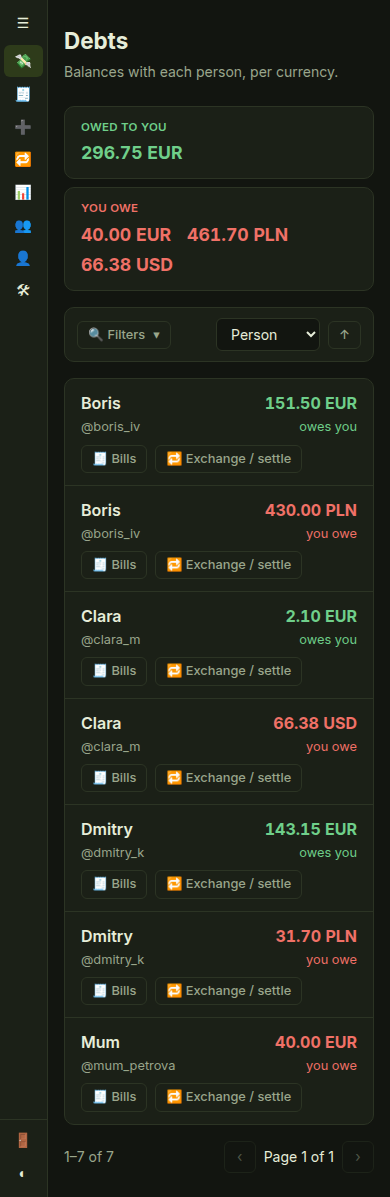
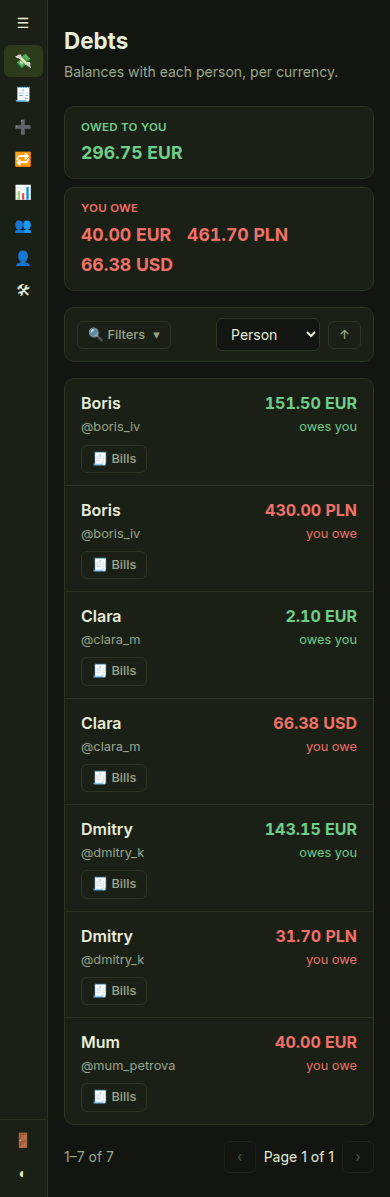
web-ui T5: participant search on its own line; docs, report and screenshots for round 4
Claude-Session: https://claude.ai/code/session_01LEFDEtKG9qXc3Y95xGRn4c

diff --git a/DebtBot/ClientApp/src/components/people/PeoplePicker.tsx b/DebtBot/ClientApp/src/components/people/PeoplePicker.tsx
@@ -46,8 +46,9 @@ export function PeoplePicker({ people, selected, onAdd, onRemove, locked, label 
             </span>
           )
         })}
-        <PersonSearch id={id} className="min-w-48 flex-1" people={people} exclude={chosen} onPick={onAdd} placeholder={t('people.add')} />
       </div>
+      {/* Always on its own line, full width, below the chips. */}
+      <PersonSearch id={id} className="mt-2 w-full" people={people} exclude={chosen} onPick={onAdd} placeholder={t('people.add')} />
     </div>
   )
 }

diff --git a/DebtBot.Doc/web-ui/reports/task-05.md b/DebtBot.Doc/web-ui/reports/task-05.md
@@ -5,7 +5,8 @@
   - `f15b731`: the approved mockups;
   - `f65978c`: backend sort and filters;
   - `5bf86b2`: the pages and the shared list pattern;
-  - the last commit: fixes from the runtime check, the docs, this report and the screenshots.
+  - `f9ab24a`: fixes from the runtime check, the docs, this report and the screenshots;
+  - round 4 (after the first report): `25788c3` people on a bill and no Exchange / settle; the last commit puts the search box on its own line and updates the docs, this report and the screenshots.
 
 ## Mockups (approved by the user)
 Three rounds; the spec is in `mockups/debts/`, `mockups/bills/`, `mockups/bill/` and `mockups/common/` (the shared CSS, `shell.js` and `list.js`).
@@ -23,6 +24,11 @@ Three rounds; the spec is in `mockups/debts/`, `mockups/bills/`, `mockups/bill/`
 **Round 3:** "remove all bill button from the pages, it's available on the left panel". So the pages have no New bill or Bills buttons. The per-row 🧾 Bills on Debts stays, because it's a filtered link. The user said not to send new mockups and to start building, so the round-3 PNGs were re-rendered and committed without another review.
 
 The Bill detail mockup wasn't changed after round 1.
+
+**Round 4, after the first report.** The user's feedback on the built pages:
+- "what's the exchange/settle button? exchanges are a feature where it creates back and forth bills to change currencies between two people". So the button is gone from the Debts rows (and from the Debts mockup README).
+- "line list would be a nightmare on a huge contacts list; make a section to select bill participants above with an autocompletion textbox and display only these in each line". This is done; see "People on a bill" below.
+- "make sure autocomplete for the participants is always on a new line". The search box sits on its own full-width line below the chips.
 
 ## Backend (sort and filters)
 **`GET Bills`** binds `[FromQuery] BillListQuery`.
@@ -98,6 +104,15 @@ No migration was needed.
 - `components/bill/PaymentEditor.tsx`: the same props, with `onSubmit(BillPaymentCreation)`.
 - Both only build the request object; the caller sends it.
 
+**People on a bill (round 4):**
+- `components/people/PersonSearch.tsx` is an ARIA combobox. It matches the start of any word of your name for them, their own name or the @username (`matchesPerson`, tested); shows up to 8 suggestions with "n more"; and supports ↑/↓, Enter and Esc.
+- `components/people/PeoplePicker.tsx`: the chosen people as chips, with the search box always on its own line below.
+- **On a draft:** a "People on this bill" section sits above the facts.
+  - It starts with you and everyone on a line or payment; those can't be removed.
+  - People you add are kept in the URL (`?people=<id>,<id>`), which survives a reload and is carried to `/add-line` and `/add-payment`.
+- `LineEditor` lists only those people, all ticked to start with (people added later also start ticked), and `PaymentEditor`'s "who paid" lists only them. T6's New bill form should use `PeoplePicker` the same way.
+- **The person filters** on Bills and Debts are type-to-search boxes too (`FilterPerson`), not a select of every contact.
+
 **Sidebar sub-sections** (`components/subnav/money.tsx`):
 - **Debts:** Balances, one entry per person, coloured, opening `/bills?with=<id>`.
 - **Bills and a bill:**
@@ -119,7 +134,7 @@ No migration was needed.
 ## Checks
 - `npm run build`: OK. The main chunk shrank from 365 kB to 246 kB (gzip 77 kB). Debts is 5 kB, Bills 7 kB and Bill 16 kB, plus shared chunks.
 - `npm run lint`: 0 warnings, 0 errors.
-- `npm test`: **34 passed** in 4 files:
+- `npm test`: **36 passed** in 5 files (34 at the first report, plus 2 for `matchesPerson`):
   - client (8);
   - `listState` (parse, clean, round-trip, changes, `pageWindow`);
   - money (units, parsing, formatting);
@@ -140,7 +155,7 @@ No migration was needed.
 - Anna added them with `by-telegram` and renamed them; "Mum" is a placeholder;
 - bills: 24 finalized in EUR, PLN, USD and PLN-paid-in-EUR, with equal and by-parts lines; 2 drafts (one with tips); 1 draft exchange (100 EUR ⇄ 430 PLN).
 
-**Headless Chrome over CDP: 17/17 checks passed.**
+**Headless Chrome over CDP: 18/18 checks passed** (re-run in full from a clean database after round 4, cold image build).
 - **Debts:** the right balances: Boris 20.00 EUR, Dmitry 111.65 EUR and 31.70 PLN, Clara 66.38 USD, Mum 40.00 EUR. It's a table at 1280 and has the Balances sub-section.
 - **Debts URL state:** a filter (`dir=owe`) and a sort (`sort=amount`) go to the URL and survive a reload; Back undoes them one at a time.
 - **Bills paging:** page 2 survives a reload and Back/Forward ("21–28 of 28").
@@ -150,9 +165,12 @@ No migration was needed.
   - search (`q=pizza`), `mine=1` and `sort=total` (the first row is the largest) work.
 - **Exchange pair in the list:** the draft exchange is one row with ⇄ and Accept. Accepting it from the list finalizes both bills, and Debts then shows Boris 120.00 EUR and 430.00 PLN.
 - **Bill detail:** a finalized bill renders lines, parts (×3), payments and "Boris owes you 30.00 EUR", with the Drafts and Recent sub-section. An exchange half shows the deal, the other half and Accept exchange.
+- **Person filters by typing:** "bor" on Bills picks Boris (`with=`) and leaves out the coffees with Clara. "dmi" on Debts picks Dmitry's two rows. Debts rows have no Exchange / settle.
 - **Draft flow:**
   - Finalize is disabled with "Add a payment to finalize";
-  - Add line goes to `/bills/<id>/add-line` (it survives a reload), and Lemonade 4 EUR for Anna and Clara is added;
+  - in "People on this bill", typing "cla" and picking Clara puts `people=<id>` in the URL;
+  - the line editor (after a reload of `/add-line`) offers exactly Anna, Boris, Dmitry and Clara, all ticked, not every contact; Boris and Dmitry are unticked for the line;
+  - Add line goes to `/bills/<id>/add-line`, and Lemonade 4 EUR for Anna and Clara is added;
   - Add payment goes to `/add-payment`, and 84 EUR is added;
   - Finalize shows Finalizing…, then Finalized;
   - Debts then gives Boris **151.50 EUR** (120 + 30 × 84/80), Dmitry 143.15 EUR and Clara 2.10 EUR, checked through the API too.
@@ -164,7 +182,8 @@ No migration was needed.
 **Screenshots** (the real app) are in `DebtBot.Doc/web-ui/reports/task-05/`:
 - `debts-1280-light.png`, `debts-1280-dark.png`, `debts-390-light.png`, `debts-390-dark.png`, `debts-390-dark-drawer.png`;
 - `bills-1280-light.png`, `bills-1280-dark.png`, `bills-drafts-1280-light.png`, `bills-390-light.png`, `bills-390-dark.png`, `bills-390-filters-dark.png`;
-- `bill-1280-light.png`, `bill-1280-dark.png`, `bill-390-light.png`, `bill-exchange-1280-light.png`, `bill-draft-addline-1280-light.png`, `bill-draft-addline-1280-dark.png`, `bill-notfound-1280-light.png`.
+- `bill-1280-light.png`, `bill-1280-dark.png`, `bill-390-light.png`, `bill-exchange-1280-light.png`, `bill-draft-addline-1280-light.png`, `bill-draft-addline-1280-dark.png`, `bill-notfound-1280-light.png`;
+- `bill-people-1280-light.png` and `bill-people-390-dark.png`: a fresh draft with People on this bill and the autocomplete open.
 
 They were taken after the flows ran, so some drafts are already finalized or cancelled in later shots.
 
@@ -185,7 +204,8 @@ They were taken after the flows ran, so some drafts are already finalized or can
 - **"Bills with them"** includes not yet finalized bills you're both in (web only; the bot unchanged).
 - **The Bills total** counts bills, so a page with a folded exchange pair shows one row fewer than "1–n of N" says.
 - **Currency filters** are a 3-letter input with suggestions (from your balances). There's no endpoint listing currencies, and a select would miss bills in currencies without a current balance.
-- **The person filter on Bills** uses your contacts. On Debts it uses the people in your balances.
+- **The person filter on Bills** searches your contacts; on Debts it searches the people in your balances.
+- **The check script waits** for the list's own rows, because the sidebar can show the same bill names first. An early run had also attached to a stray headless Chrome left by an aborted run; the script now always closes Chrome.
 - **Dates** follow the mockups (day first, 24-hour) through en-GB formatting while the UI language is English.
 - **The editors** are inline sections with their own URLs, not dialogs. Leaving one (Cancel, or after adding) uses `replace`, so Back doesn't reopen it.
 - **Polling** is 1 s, for up to 30 s, for our own action or for a bill opened while `Ready`.

diff --git a/DebtBot.Doc/web-ui/mockups/shell/README.md b/DebtBot.Doc/web-ui/mockups/shell/README.md
@@ -23,7 +23,7 @@ The HTML and PNGs here are the spec for the app shell. `sections.html` shows the
 |---|---|
 | Debts | `/?with=&currency=&dir=owed\|owe&sort=person\|amount\|currency&order=asc\|desc&page=` |
 | Bills | `/bills?q=&with=&currency=&from=&to=&status=draft\|processing\|finalized\|cancelled&mine=1&sort=date\|description\|total\|status&order=&page=` |
-| Bill | `/bills/<id>`, `/bills/<id>/add-line`, `/bills/<id>/add-payment` |
+| Bill | `/bills/<id>`, `/bills/<id>/add-line`, `/bills/<id>/add-payment`, each with `?people=<id>,<id>` for people added to a draft |
 | New bill | `/bills/new`, `/bills/new/paste` |
 | Exchange | `/exchange` |
 | Spendings | `/spendings?page=` |
@@ -56,7 +56,8 @@ The user's rule (T5, mockup round 2): every paged list has the same shape and lo
 - `lib/useListState.ts`: `const [state, setState] = useListState(spec)` reads and writes the URL.
 - `lib/lists.ts`: each list's spec and its `xxxQuery(state)` that maps URL state to the API query (`PAGE_SIZE` = 20). Add `spendingsSpec`/`exchangesSpec` here.
 - `components/list/ListView.tsx`: `<ListView spec state onChange filters sorts columns card rowKey rowHref? rowHighlight? items total pageSize loading fetching error empty filteredEmpty tableMinWidth? />`. `columns` are `{ key, header, sort?, align?, width?, cell }`; `sorts` are `{ value, label, asc, desc }` (the direction labels).
-- `components/list/filters.tsx`: `FilterSelect`, `FilterChoice` (pills, first option `''` = all), `FilterFlag`, `FilterText` (commits after a pause, on Enter or blur), `FilterDate`, `FilterCurrency` (3 letters, suggestions).
+- `components/list/filters.tsx`: `FilterPerson` (type to search; use it for people, never a select of all contacts), `FilterSelect`, `FilterChoice` (pills, first option `''` = all), `FilterFlag`, `FilterText` (commits after a pause, on Enter or blur), `FilterDate`, `FilterCurrency` (3 letters, suggestions).
+- `components/people/PersonSearch.tsx` (an autocomplete combobox over `usePeople()`) and `PeoplePicker.tsx` (chips, plus the search box on its own line).
 - `components/list/Pager.tsx`.
 
 **API convention** (backend, server-side sort and filter):

diff --git a/DebtBot.Doc/web-ui/mockups/debts/README.md b/DebtBot.Doc/web-ui/mockups/debts/README.md
@@ -3,7 +3,8 @@
 `debts.html` (query: `theme=dark`, `phone=1|open`, `state=main|filtered|empty`) and the PNGs are the spec for 💸 Debts (`/`).
 
 - Two total cards (owed to you / you owe, per currency), then the shared list pattern (`../common/list.js`, described in `../shell/README.md`).
-- One row per person and currency, with the buttons 🧾 Bills (`/bills?with=<id>&currency=<ccy>`) and 🔁 Exchange / settle (`/exchange?with=<id>`).
+- One row per person and currency, with a 🧾 Bills button (`/bills?with=<id>&currency=<ccy>`).
+- **After approval (user, round 4):** the mockup's 🔁 Exchange / settle button was dropped. An exchange swaps currencies between two people; it doesn't settle a balance. The person filter is a type-to-search box rather than a select, because contact lists can be long.
 - Filters: person, currency, direction (all / owed to you / you owe). Sort: person, amount, currency.
 - Only your own balances: no "people you follow" (user, round 2).
 - No New bill or Bills buttons on the page, since they're in the sidebar (user, round 3).

diff --git a/DebtBot.Doc/web-ui/mockups/bill/README.md b/DebtBot.Doc/web-ui/mockups/bill/README.md
@@ -14,4 +14,8 @@
   - ＋ Add line (`/bills/<id>/add-line`) and ＋ Add payment (`/bills/<id>/add-payment`). The editors are reusable for T6's New bill form.
 - **After Finalize:** a "Finalizing…" banner while the page polls.
 - **Exchange half:** a banner with the other half and ✓ Accept exchange. No line or payment editing.
+- **After approval (user, round 4):**
+  - a draft has a "People on this bill" section above the lines: chips, plus a search box on its own line that autocompletes from your contacts and yourself;
+  - the line editor ticks only those people (all of them to start with), and "who paid" lists only them, so a long contact list never becomes a long checkbox list;
+  - people not yet on a line or a payment are kept in the URL (`?people=<id>,<id>`).
 - **Not found and no access** are one view, because the API returns 404 for both.
